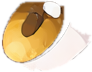
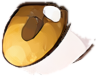
mascot v4: seam-free source, lash/static layer split, blink-safe brow
- Rebase oc_peeking.png onto a seam-filled copy: all small transparent
  anti-alias holes inside the art are repainted with the surround median,
  killing the dark-page 'white residue / broken lash' artifacts at the source.
- New layer stack: base2 < iris(masked, moving) < lash(open only) <
  lid(blink only) < eyestatic(brow+hair, always top). The brow and the white
  hair strands can no longer be shaved or skin-tinted during blinks.
- Eyeball part now = aperture + limbus ring (black ring moves with the pupil);
  socket mask = eye hole clip window; lash band + white shine notches are a
  separate static-ish layer hidden exactly during the blink swap.
- Closed lids keep the v2 diff-based harvest from the qwen edit.
- Drop obsolete oc_eyeoverlay.png (replaced by oc_lash.png + oc_eyestatic.png).

diff --git a/components/FloatingMascot.tsx b/components/FloatingMascot.tsx
@@ -4,12 +4,13 @@ import { useEffect, useState, useRef, useCallback } from "react";
 import Image from "next/image";
 
 /**
- * 屏幕左侧 Q 版看板娘（Web 2.5D 切件看板娘组件 v3）
+ * 屏幕左侧 Q 版看板娘（Web 2.5D 切件看板娘组件 v4）
  *
  * 层序（Z 从低到高）：
- *   base2(底图,眼孔填平眼白+完整手指) < iris_l/r(整眼孔虹膜件,随光标位移,
- *   经眼孔遮罩裁切永远出不了眼眶) < eyeoverlay(睁眼睫毛环) < lid_l/r(闭眼件,仅眨眼时显示)
- * 眨眼 = 隐藏 overlay+iris、显示 lids（qwen-image-2.1 重绘的自然闭眼件）。
+ *   base2(底图,眼球像素填平眼白+完整手指) < iris_l/r(眼球件,随光标位移,
+ *   经眼孔遮罩裁切永远出不了眼眶) < lash(睁眼睫毛环,眨眼时隐藏)
+ *   < lid_l/r(闭眼件,仅眨眼时显示) < eyestatic(眉毛+白发静止件,永远最上层)
+ * 眨眼 = 隐藏 iris+lash、显示 lids；眉毛/白发由 static 层恒定保住。
  * 立绘本体不随动，仅眼睛注视光标；点击只弹台词气泡（不摆手）。
  */
 
@@ -19,13 +20,14 @@ interface MascotProps {
   toggleHide: string;
 }
 
-/* 部件几何：canvas 700x997 的百分比（源自 _tmp_mascot/parts_report.json） */
+/* 部件几何：canvas 700x997 的百分比（源自 _tmp_mascot/parts_report.json v5.1） */
 const GEO = {
-  irisL: { left: "17.00%", top: "40.02%", width: "13.00%", height: "8.22%" },
-  irisR: { left: "43.43%", top: "50.25%", width: "13.14%", height: "7.22%" },
-  overlay: { left: "16.43%", top: "39.62%", width: "40.86%", height: "18.25%" },
-  lidL: { left: "13.86%", top: "34.80%", width: "20.86%", height: "13.94%" },
-  lidR: { left: "41.71%", top: "44.33%", width: "21.00%", height: "17.35%" },
+  irisL: { left: "16.43%", top: "39.62%", width: "13.71%", height: "8.63%" },
+  irisR: { left: "43.43%", top: "49.85%", width: "13.71%", height: "7.62%" },
+  lash: { left: "11.86%", top: "34.90%", width: "50.71%", height: "25.08%" },
+  static: { left: "11.86%", top: "34.90%", width: "50.71%", height: "26.68%" },
+  lidL: { left: "11.71%", top: "34.80%", width: "20.71%", height: "13.94%" },
+  lidR: { left: "42.86%", top: "44.33%", width: "19.86%", height: "15.95%" },
 };
 
 /* 眼孔遮罩：虹膜位移后被裁切在眼眶内，绝不越界压到睫毛线 */
@@ -157,7 +159,7 @@ export default function FloatingMascot({ quotes, toggleShow, toggleHide }: Masco
         </button>
       )}
 
-      {/* 展开状态：随动在屏幕左侧边缘 */}
+      {/* 展开状态：贴在屏幕左侧边缘 */}
       {visible && (
         <div
           ref={mascotRef}
@@ -193,7 +195,7 @@ export default function FloatingMascot({ quotes, toggleShow, toggleHide }: Masco
             style={{ animation: "mascot-breathe 4.5s ease-in-out infinite" }}
           >
             <div className="relative -ml-2.5 w-36 sm:w-44 md:w-48 aspect-[700/997] filter drop-shadow-[0_8px_20px_rgba(224,144,12,0.18)] dark:drop-shadow-[0_8px_24px_rgba(224,144,12,0.14)]">
-              {/* Z1 底图：眼孔填平眼白 + 身体头发 */}
+              {/* Z10 底图：眼球像素填平眼白 + 身体头发手指 */}
               <div className="absolute inset-0 z-10">
                 <Image
                   src="/oc_base2.png"
@@ -204,7 +206,7 @@ export default function FloatingMascot({ quotes, toggleShow, toggleHide }: Masco
                 />
               </div>
 
-              {/* Z2 虹膜件：外层固定+眼孔遮罩裁切，内层随光标位移（眨眼时隐藏） */}
+              {/* Z20 眼球件：外层固定+眼孔遮罩裁切，内层随光标位移（眨眼时隐藏） */}
               <div
                 className="absolute z-20 pointer-events-none"
                 style={{
@@ -250,26 +252,31 @@ export default function FloatingMascot({ quotes, toggleShow, toggleHide }: Masco
                 </div>
               </div>
 
-              {/* Z5 睁眼睫毛环（眨眼时隐藏） */}
+              {/* Z30 睁眼睫毛环（眨眼时隐藏） */}
               <div
-                className="absolute z-50 pointer-events-none"
-                style={{ ...GEO.overlay, opacity: openEyeOpacity, transition: "opacity 0.07s linear" }}
+                className="absolute z-30 pointer-events-none"
+                style={{ ...GEO.lash, opacity: openEyeOpacity, transition: "opacity 0.07s linear" }}
               >
-                <Image src="/oc_eyeoverlay.png" alt="" fill className="object-contain" />
+                <Image src="/oc_lash.png" alt="" fill className="object-contain" />
               </div>
 
-              {/* Z6 闭眼件（仅眨眼时显示） */}
+              {/* Z40 闭眼件（仅眨眼时显示） */}
               <div
-                className="absolute z-60 pointer-events-none"
+                className="absolute z-40 pointer-events-none"
                 style={{ ...GEO.lidL, opacity: lidOpacity, transition: "opacity 0.07s linear" }}
               >
                 <Image src="/oc_lid_l.png" alt="" fill className="object-contain" />
               </div>
               <div
-                className="absolute z-60 pointer-events-none"
+                className="absolute z-40 pointer-events-none"
                 style={{ ...GEO.lidR, opacity: lidOpacity, transition: "opacity 0.07s linear" }}
               >
                 <Image src="/oc_lid_r.png" alt="" fill className="object-contain" />
+              </div>
+
+              {/* Z50 静止件：眉毛+白发（永远最上层，眨眼不闪失） */}
+              <div className="absolute z-50 pointer-events-none" style={GEO.static}>
+                <Image src="/oc_eyestatic.png" alt="" fill className="object-contain" />
               </div>
             </div>
           </div>
